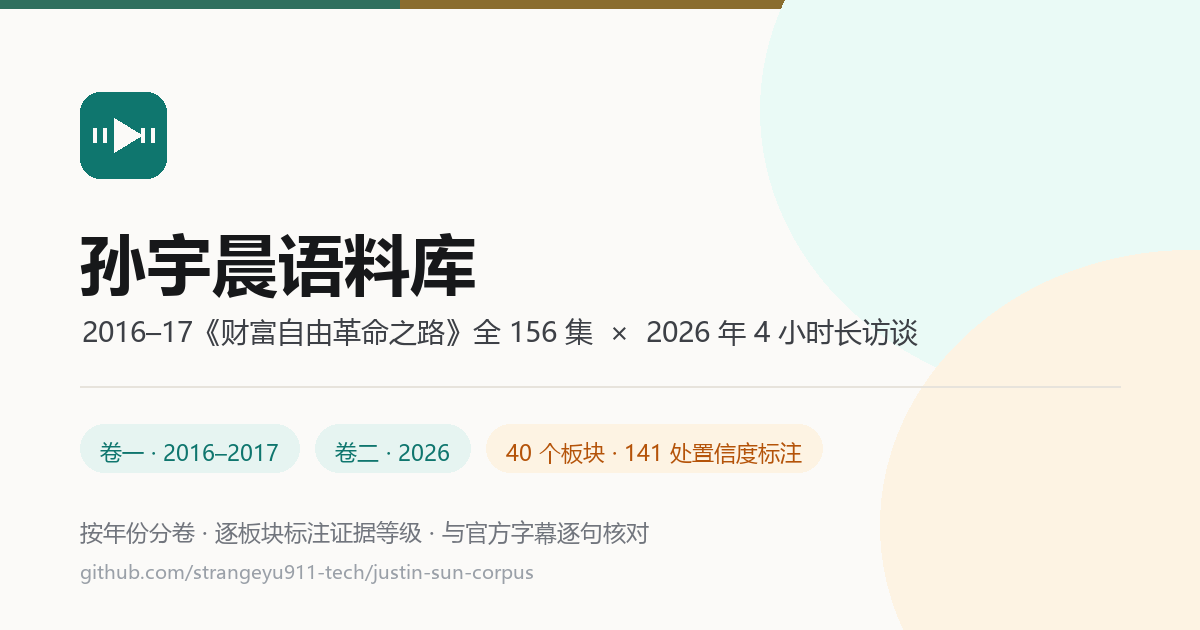
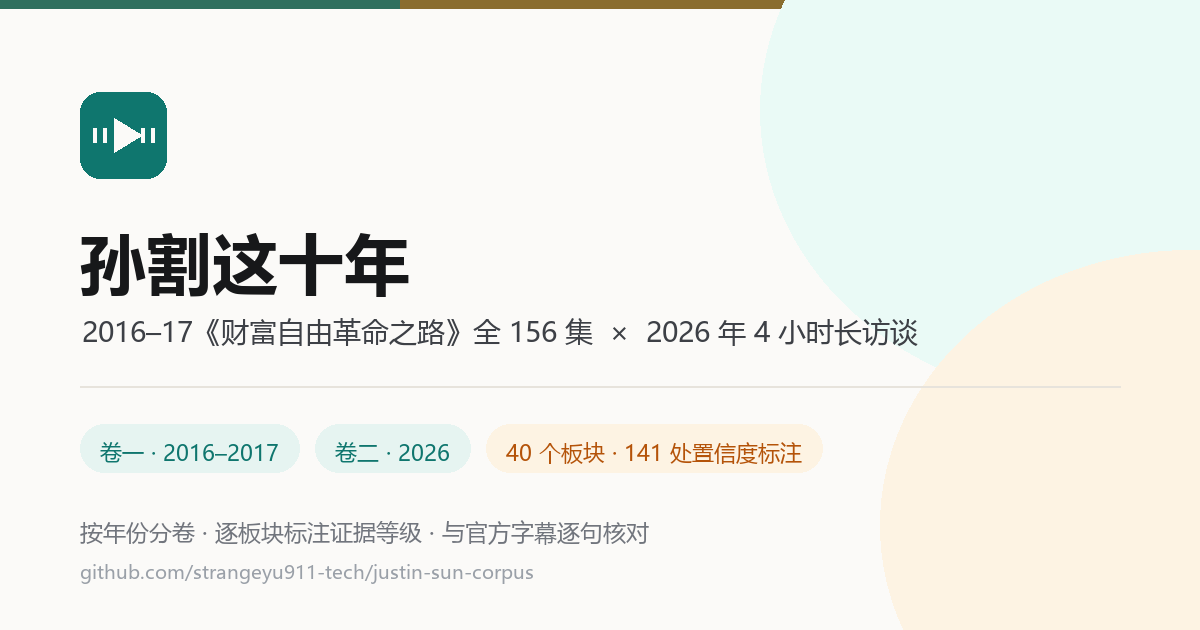
重生成分享封面 og.png（站名改「孙割这十年」）；gen_og.py 输出路径改为相对仓库根

Changed region(s): [[0.1233, 0.3619, 0.4008, 0.4825]]

diff --git a/_build/gen_og.py b/_build/gen_og.py
@@ -3,7 +3,8 @@
 import os
 from PIL import Image, ImageDraw, ImageFont
 
-OUT = r"D:\workbuddy\Data\Agent-Reach\outputs\sunyuchen-site\assets\og.png"
+# 输出到「本脚本所在仓库」的 assets/og.png——用相对路径，避免换副本/换机器时写错地方
+OUT = os.path.join(os.path.dirname(os.path.dirname(os.path.abspath(__file__))), "assets", "og.png")
 W, H = 1200, 630
 BG = (251, 250, 248)
 INK = (23, 24, 26)
